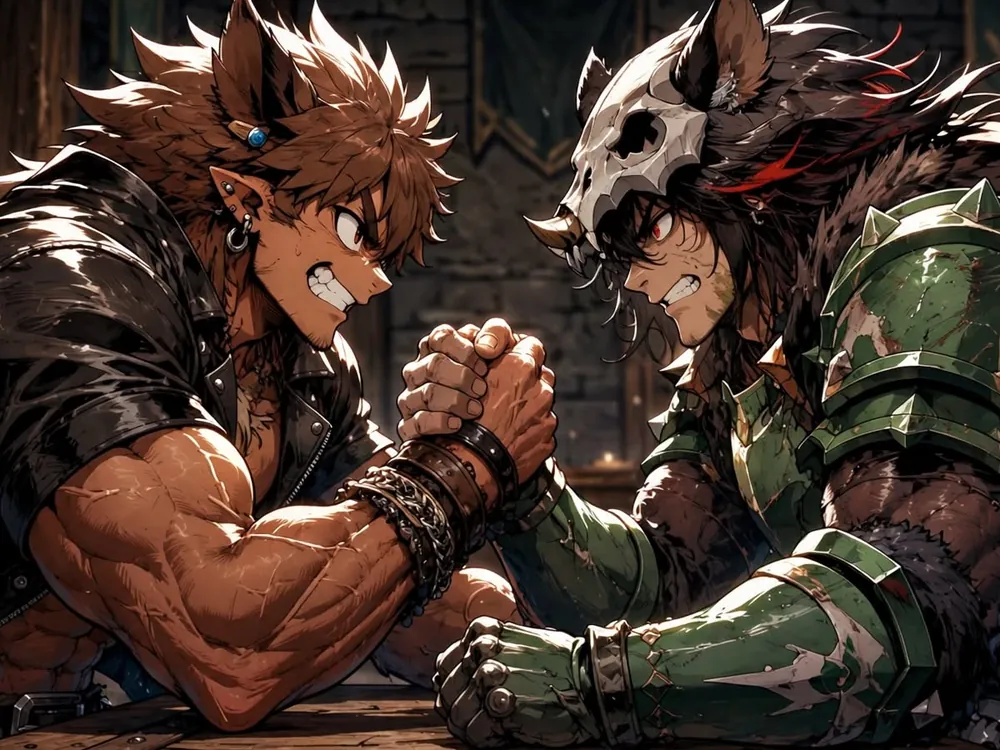
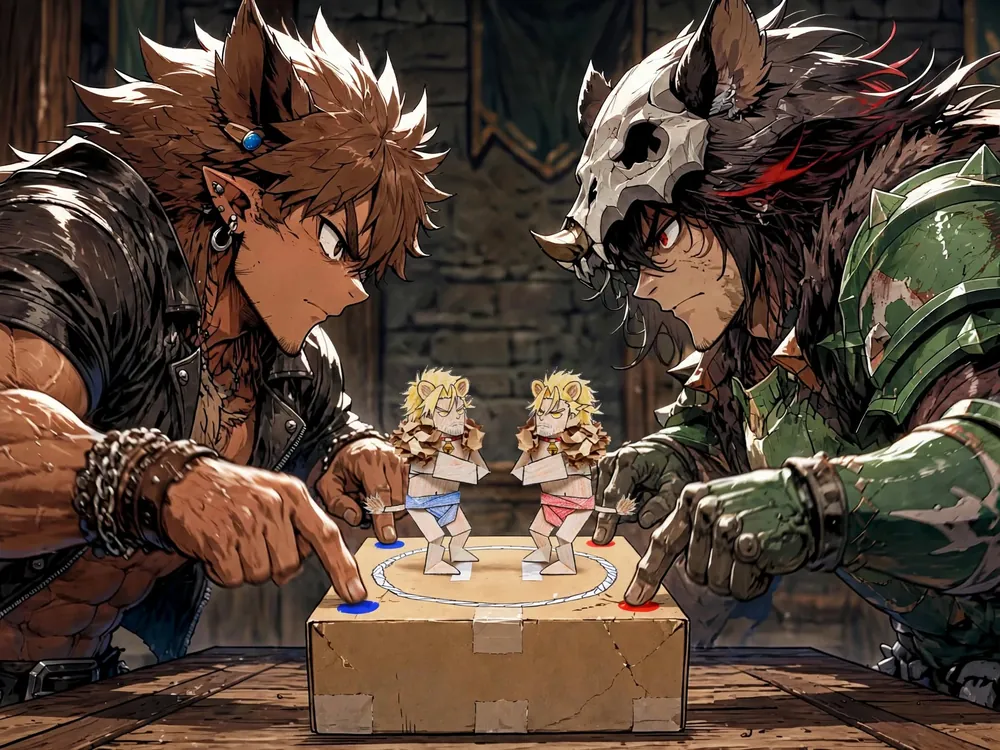
プレイガイド: battle2.webp を紙相撲のイラストに差し替え（腕相撲→紙相撲・alt更新）

diff --git a/game.html b/game.html
@@ -127,7 +127,7 @@
             ],
             'guide-battle': [
                 ['battle.webp',  '夕暮れの戦場で対峙する2人のキャラ'],
-                ['battle2.webp', '腕相撲で力比べをする2人のキャラ'],
+                ['battle2.webp', '紙相撲で勝負する2人のキャラ'],
                 ['battle3.webp', 'スマホで対戦する2人のちびキャラ']
             ]
         };
